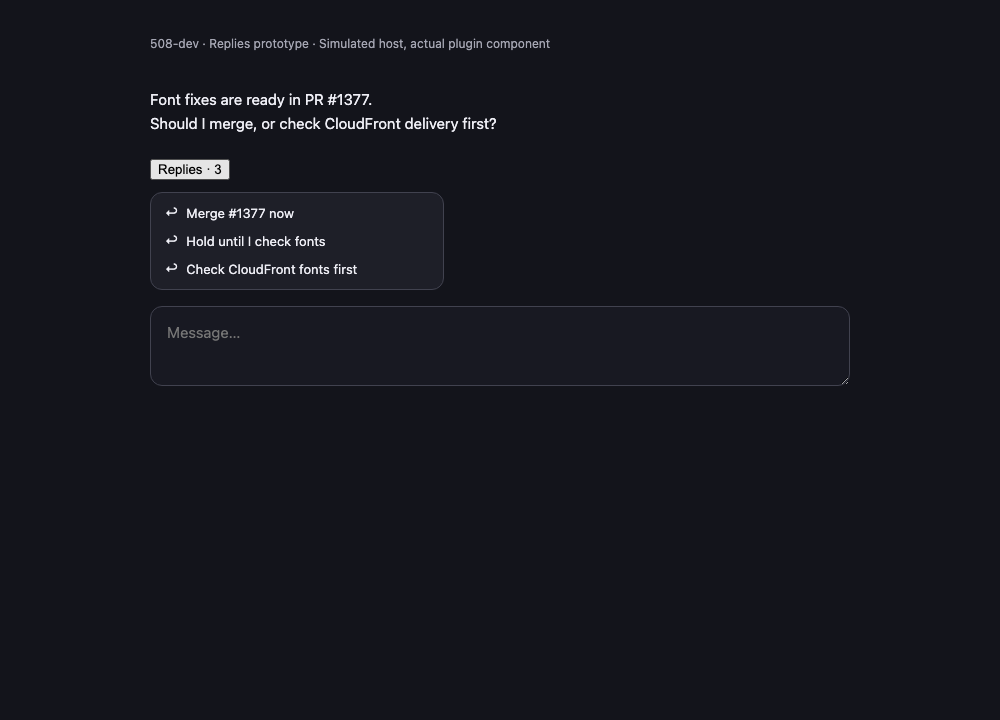
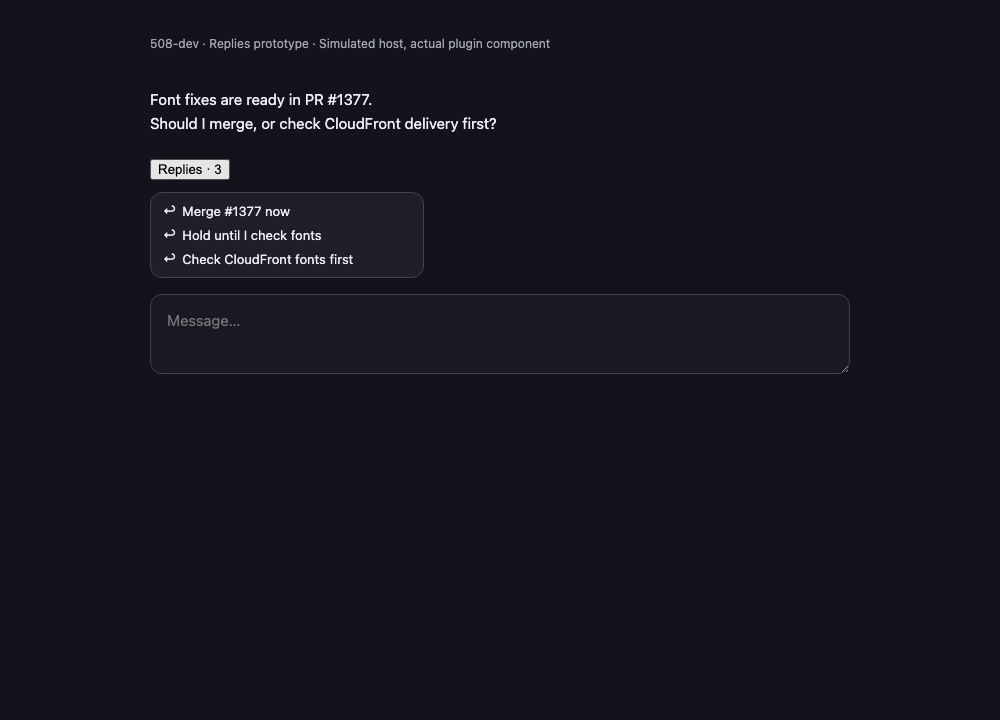
Tighten reply menu padding and refresh screenshots

Changed region(s): [[0.155, 0.275, 0.465, 0.4889]]

diff --git a/client/reply-pills.tsx b/client/reply-pills.tsx
@@ -82,13 +82,13 @@ export function contributeReplyPills(client: PluginClientContext, agents: Agents
     const styles = useMemo(
       () => ({
         // A fixed width: a long reply wraps instead of widening the popover.
-        list: { gap: 0, width: 280, maxWidth: "100%" as const },
+        list: { gap: 0, width: 260, maxWidth: "100%" as const },
         row: {
           flexDirection: "row" as const,
           alignItems: "flex-start" as const,
-          gap: 8,
-          paddingVertical: layout.compact ? 13 : 5,
-          paddingHorizontal: 8,
+          gap: 6,
+          paddingVertical: layout.compact ? 7 : 3,
+          paddingHorizontal: 6,
           borderRadius: 4,
         },
         icon: { flexShrink: 0, height: 18, justifyContent: "center" as const },
@@ -97,7 +97,7 @@ export function contributeReplyPills(client: PluginClientContext, agents: Agents
         note: {
           color: theme.colors.foregroundMuted,
           fontSize: 12,
-          paddingHorizontal: 8,
+          paddingHorizontal: 6,
           paddingVertical: 4,
         },
       }),
@@ -164,7 +164,7 @@ export function contributeReplyPills(client: PluginClientContext, agents: Agents
             ]}
           >
             <View style={styles.icon}>
-              <Icon name="MessageSquareReply" size={14} color={theme.colors.foreground} />
+              <Icon name="MessageSquareReply" size={12} color={theme.colors.foreground} />
             </View>
             <Text style={styles.text}>{reply}</Text>
           </Pressable>
